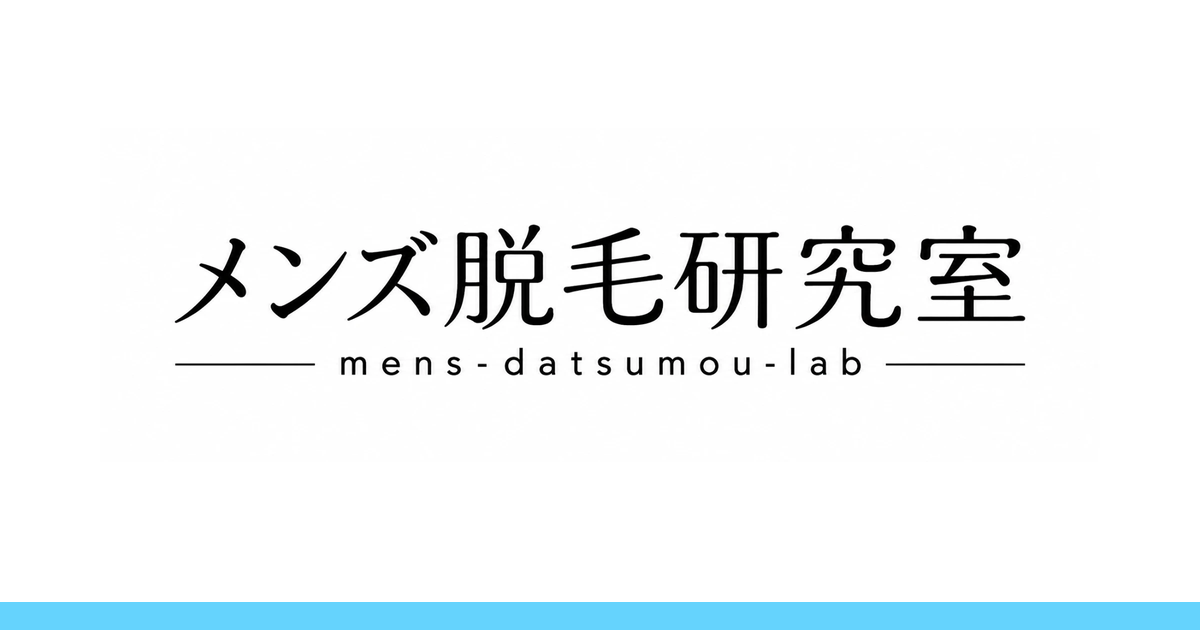
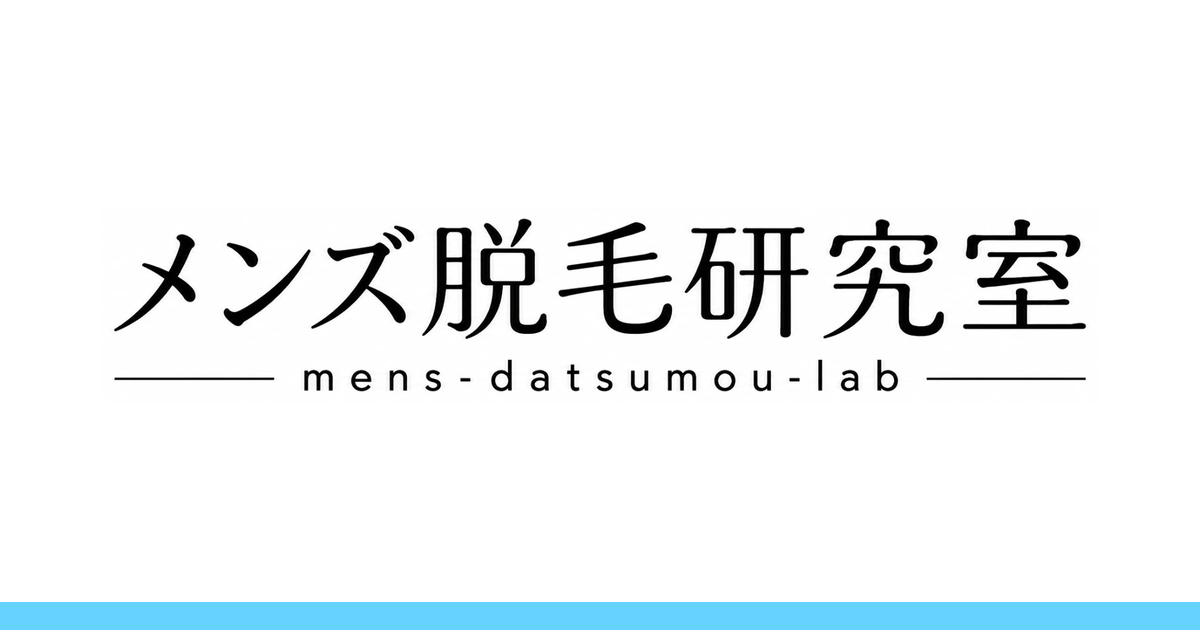
トップページをまいかと同じ構成に戻し、ロゴを大きく表示
- トップのヒーロー画像（受付・施術室の2枚スライダー）とカテゴリー別の記事の枠を、まいかと同じ構成で復元
- カテゴリーをまいかと同じ6つ（脱毛を選ぶ／地域で選ぶ／基礎を知る／お金と契約／通う・受ける／よくある質問）に変更
- ロゴ画像の余白を切り詰め、ヘッダーのロゴを大きく表示（パソコン64px、スマホ48px）
- OGP 画像を切り詰めたロゴで作り直し

Changed region(s): [[0.0925, 0.3317, 0.925, 0.6333]]

diff --git a/src/styles/theme.css b/src/styles/theme.css
@@ -467,12 +467,12 @@ footer.site-footer[class] .site-footer__widgets { display: none; }
 
 
 /* ヘッダーのサイトロゴ画像 */
-.brand__logo-img { display: block; height: 56px; width: auto; }
-@media (max-width: 600px) { .brand__logo-img { height: 44px; } }
+.brand__logo-img { display: block; height: 64px; width: auto; }
+@media (max-width: 600px) { .brand__logo-img { height: 48px; } }
 
 /* 管理画面でサイトロゴを設定した場合も、同じ大きさで表示する */
-header.site-header .brand .brand__logo[class] { height: 56px; width: auto; max-width: none; }
-@media (max-width: 600px) { header.site-header .brand .brand__logo[class] { height: 44px; } }
+header.site-header .brand .brand__logo[class] { height: 64px; width: auto; max-width: none; }
+@media (max-width: 600px) { header.site-header .brand .brand__logo[class] { height: 48px; } }
 
 /* ---- 記事ページ: マナブログ風（グレー背景に白いカード／見出し） ---- */
 article.post {
